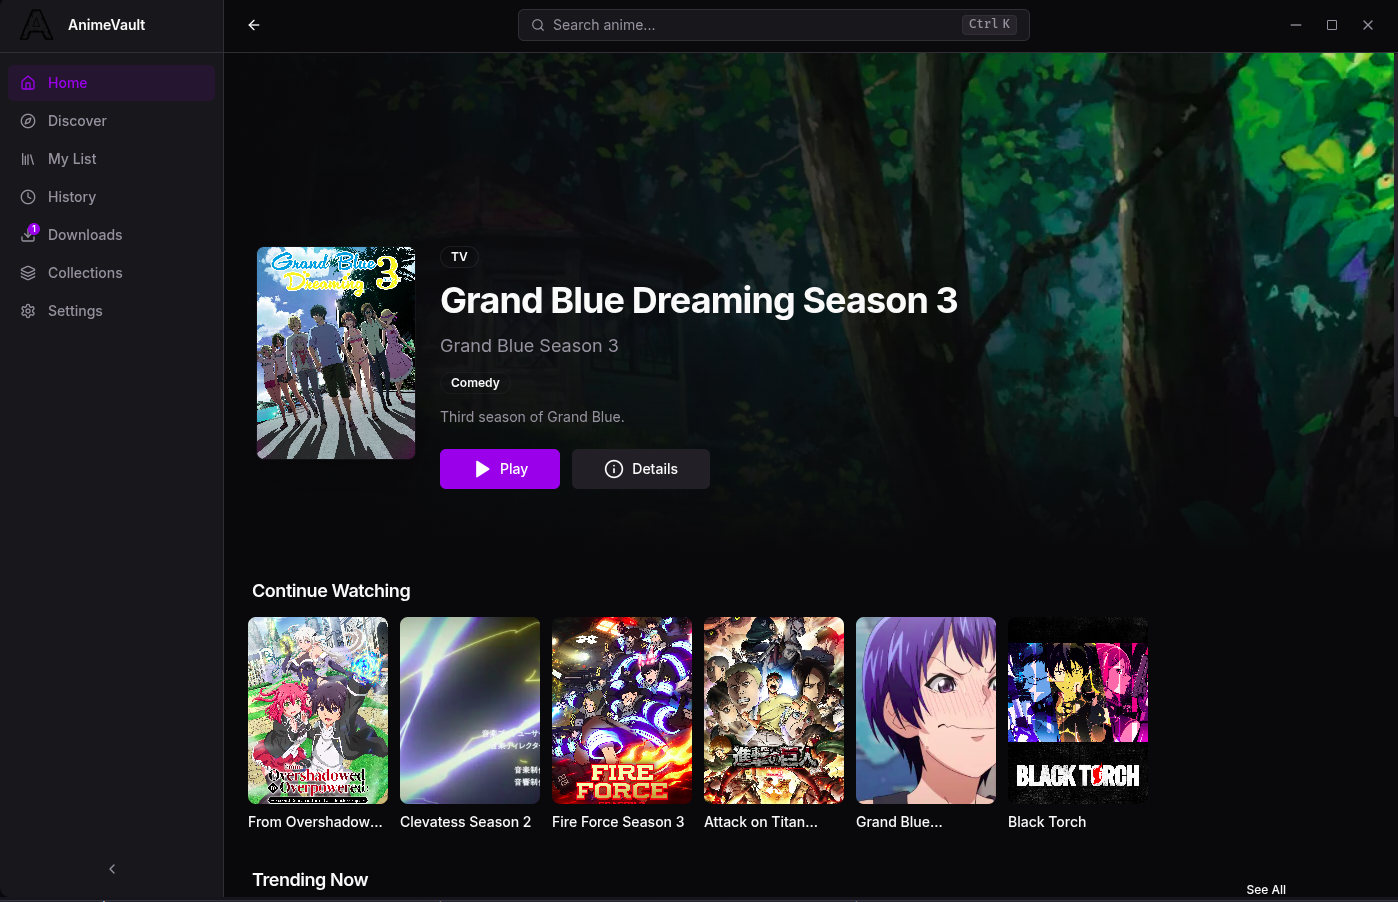
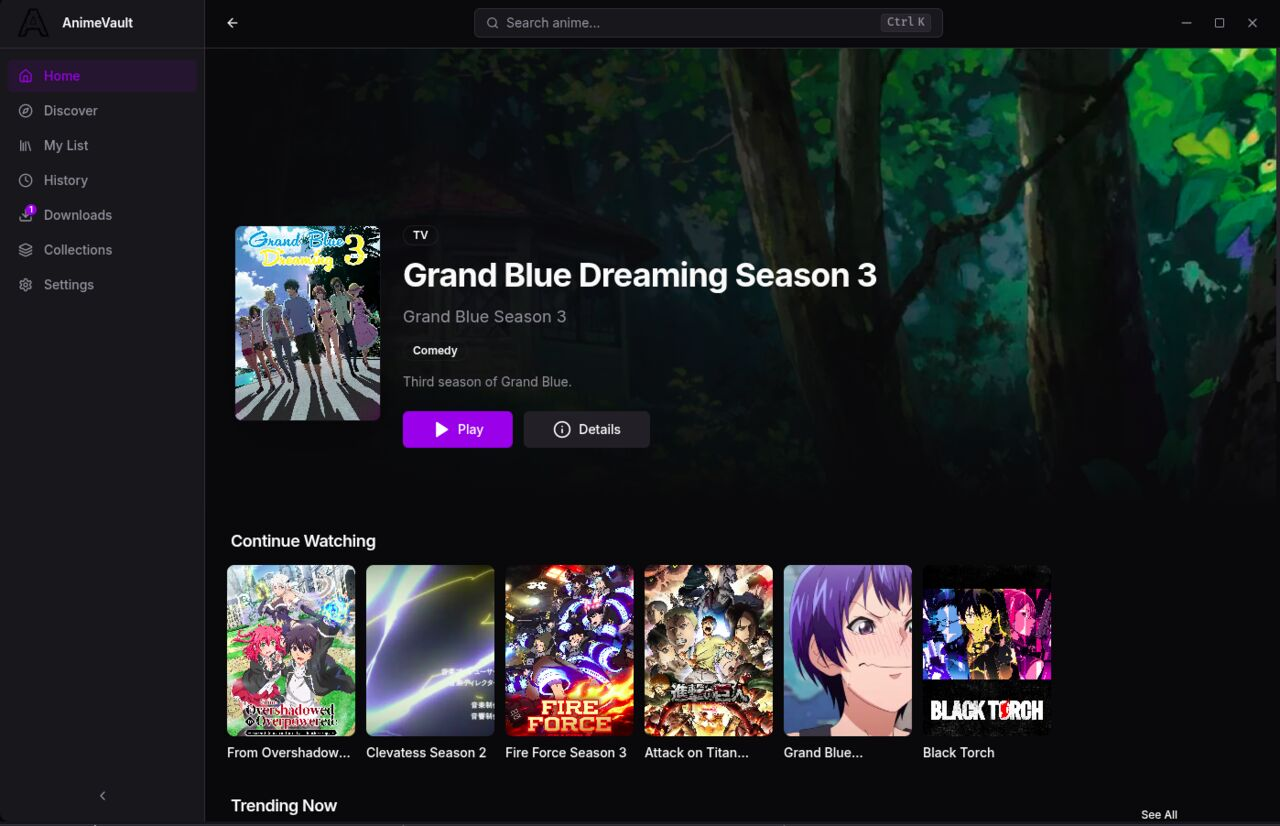
chore: optimize preview and update landing page

diff --git a/index.html b/index.html
@@ -258,14 +258,20 @@
 
     /* ── HERO VISUAL ── */
     .hero-visual {
-      width: min(900px, 90vw);
-      margin: 4rem auto 0;
+      width: min(900px, 92vw);
+      margin: 3rem auto 0;
       border: 1px solid var(--border-bright);
       border-radius: 8px;
       overflow: hidden;
       background: var(--bg-card);
       box-shadow: 0 40px 120px rgba(0,0,0,0.7), 0 0 0 1px rgba(255,255,255,0.04);
       animation: fadeUp 0.8s 0.5s ease both;
+    }
+
+    .hero-visual img {
+      width: 100%;
+      height: auto;
+      display: block;
     }
 
     .window-chrome {
@@ -530,6 +536,11 @@
     @media (max-width: 700px) {
       nav { padding: 1rem 1.5rem; }
       .nav-links { display: none; }
+      .hero { padding: 6rem 1.25rem 3rem; }
+      .hero-visual { width: 95vw; margin-top: 2rem; border-radius: 6px; }
+      .window-chrome { padding: 0.5rem 0.75rem; }
+      .section { padding: 4rem 1.25rem; }
+      .features-grid { grid-template-columns: 1fr; }
       footer { flex-direction: column; text-align: center; }
     }
   </style>
@@ -581,10 +592,9 @@
       <img
         src="preview.png"
         alt="AnimeVault desktop app showing anime streaming interface with Continue Watching, Trending Now, and sidebar navigation"
-        style="width:100%;display:block;"
         loading="eager"
         width="1280"
-        height="720"
+        height="826"
       />
     </div>
   </section>
